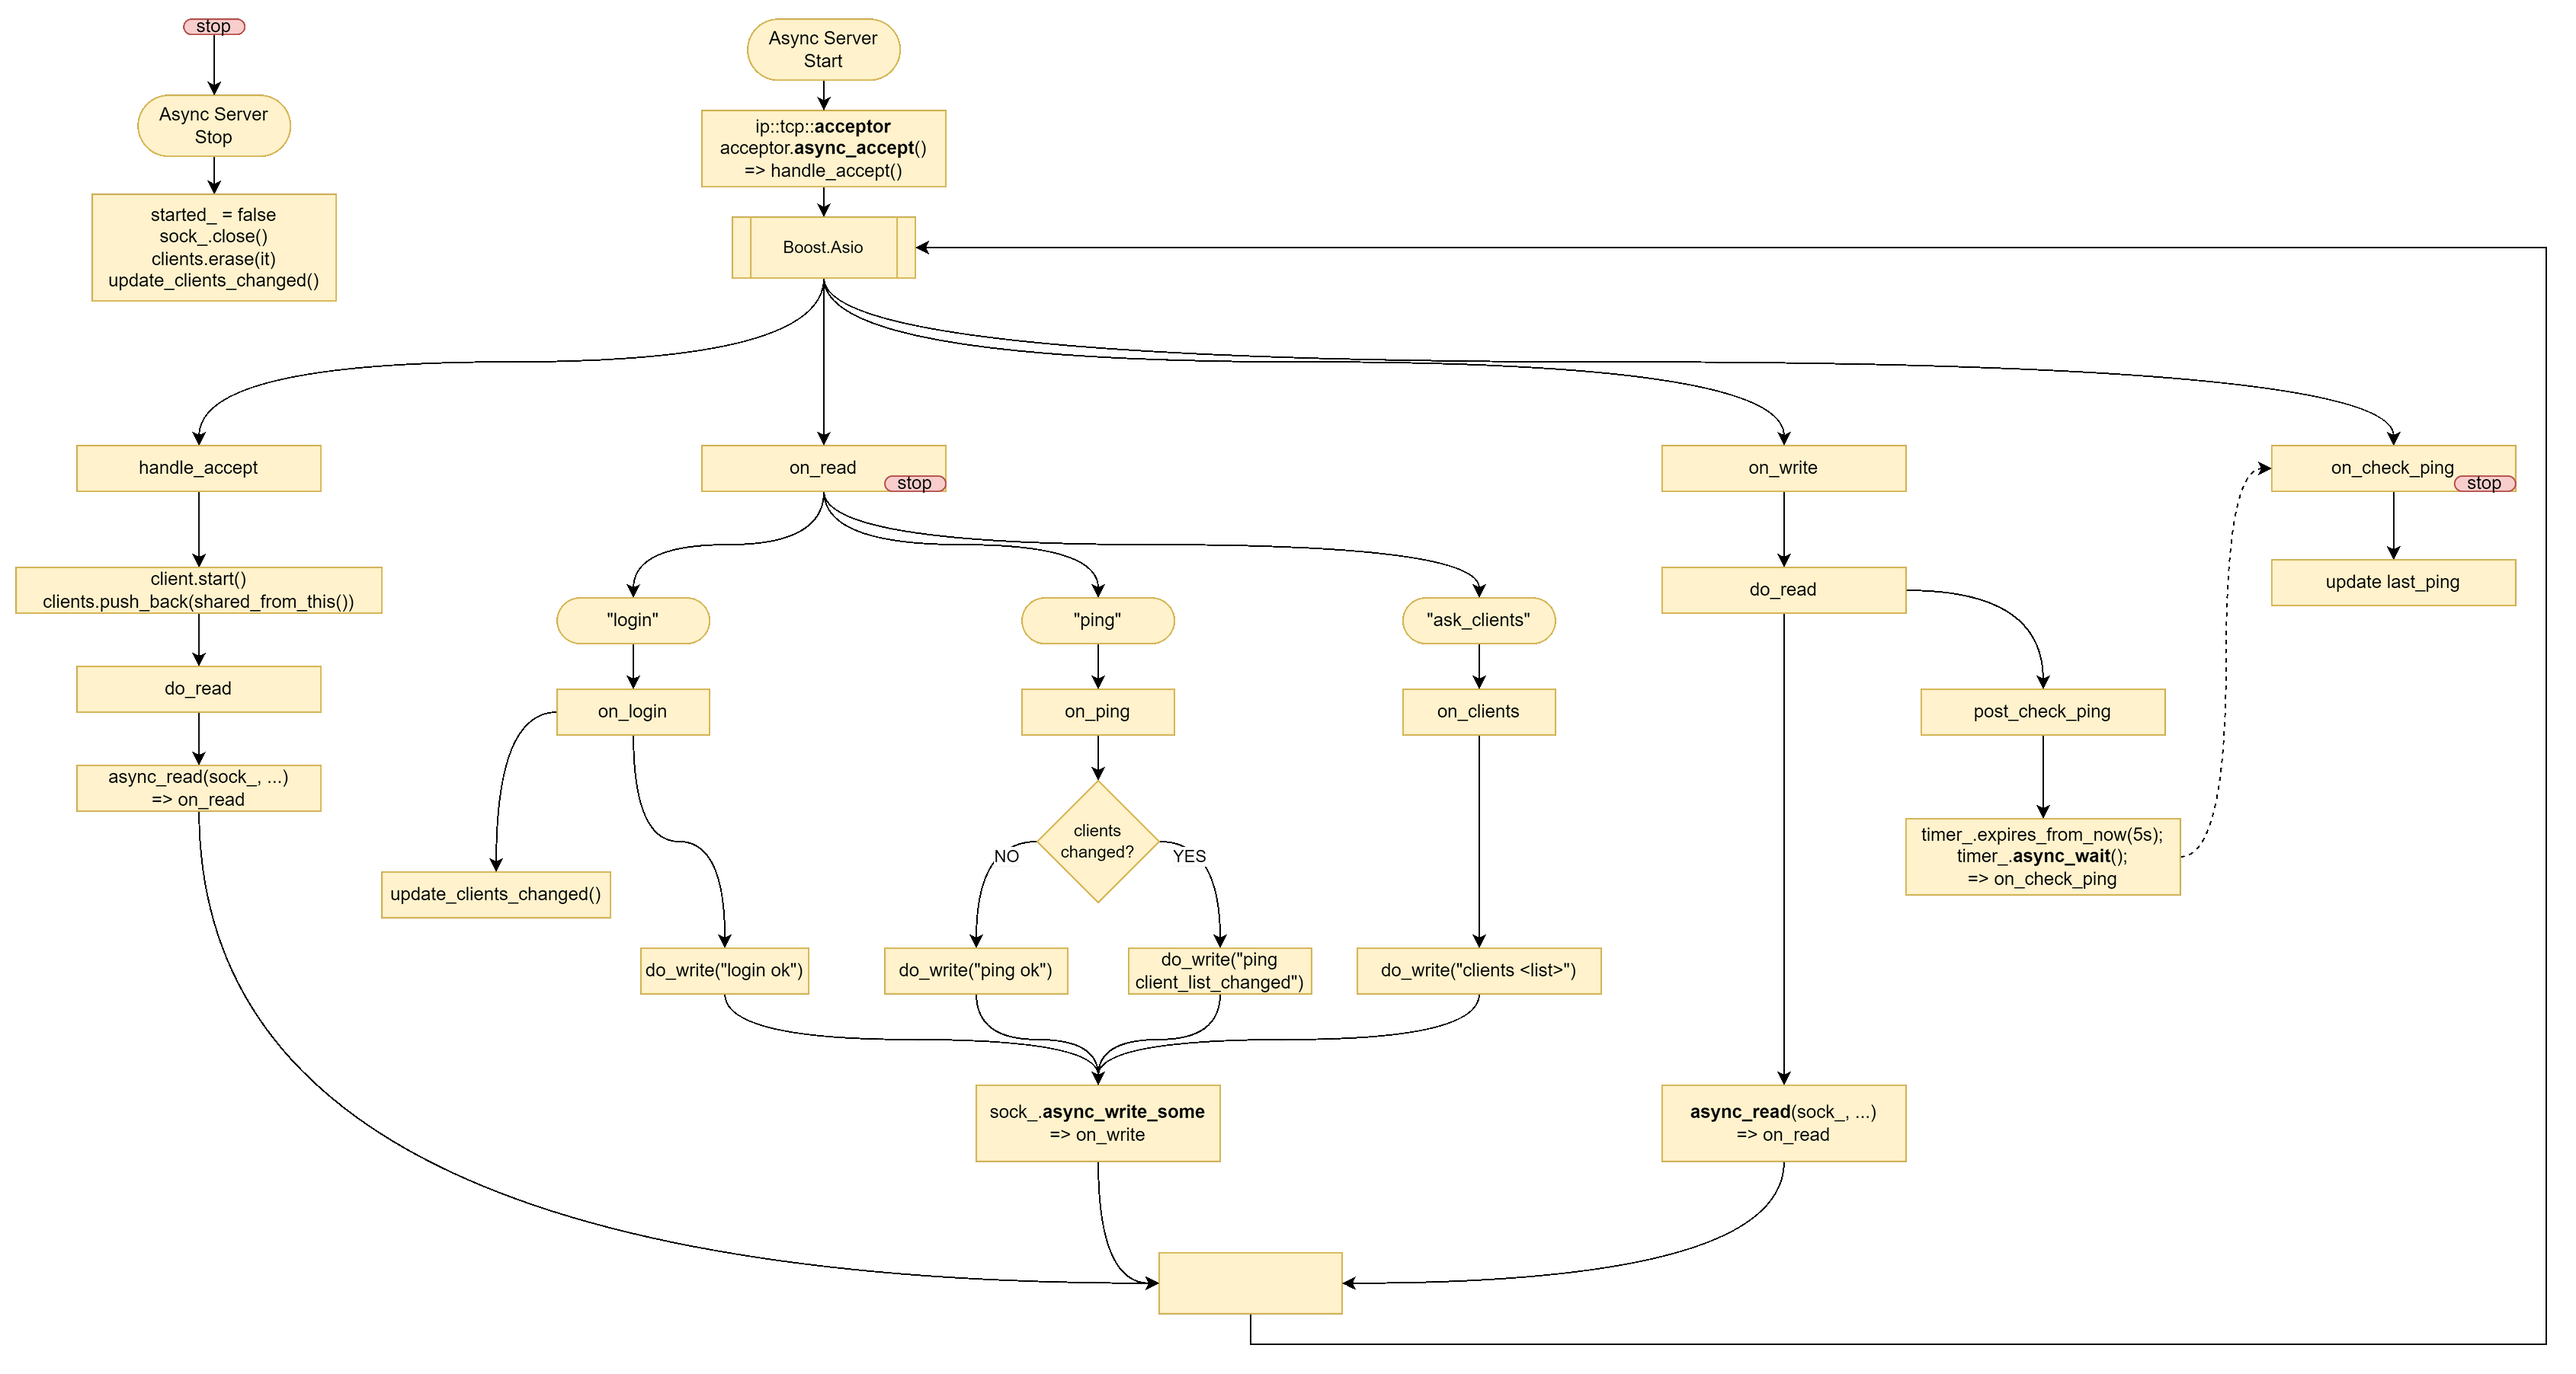
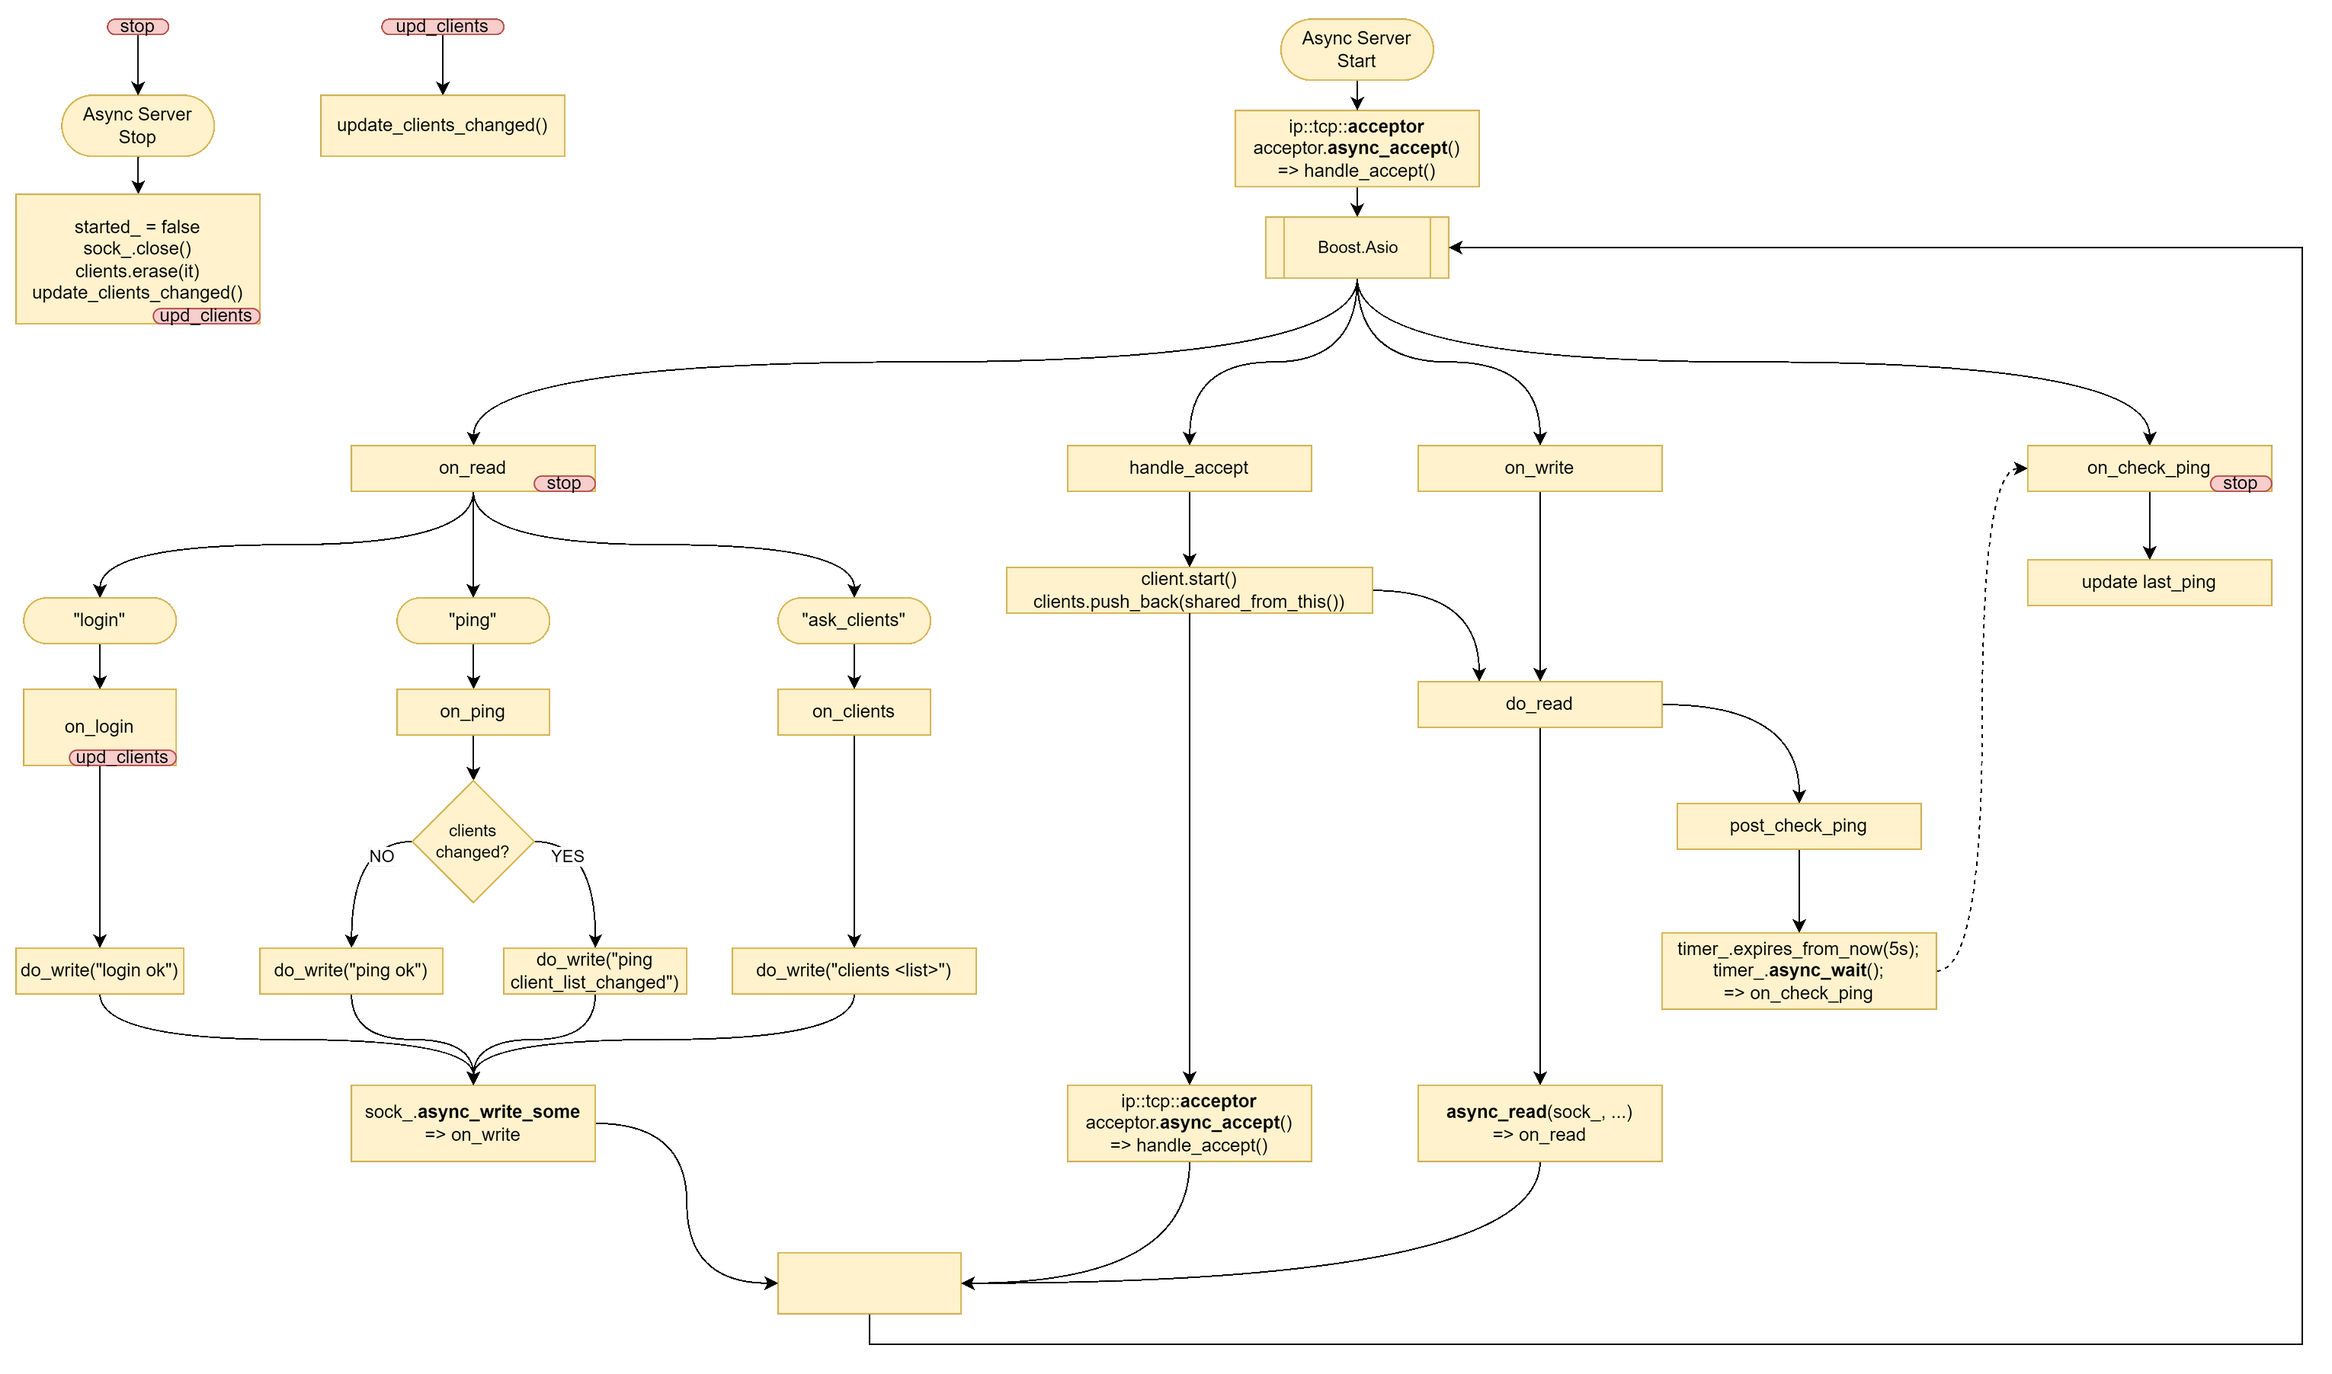
Update boost asio async server diagram.

diff --git a/2024-09-04_0300_Torjo_Boost_Asio.md b/2024-09-04_0300_Torjo_Boost_Asio.md
@@ -77,9 +77,7 @@ Boost Asio – это кроссплатформенная библиотека,
 
 ![boost_asio_async_client](screenshots/boost_asio_async_client.png)
 
-![boost_asio_async_server.png](screenshots/boost_asio_async_server.png)
-
-![boost_asio_async_server_orig](screenshots/boost_asio_async_server_orig.png)
+![boost_asio_async_server](screenshots/boost_asio_async_server.png)
 
 - [code/torjo_boost_asio/4/async_client.cpp](code/torjo_boost_asio/4/async_client.cpp)
 - [code/torjo_boost_asio/4/async_server.cpp](code/torjo_boost_asio/4/async_server.cpp)
